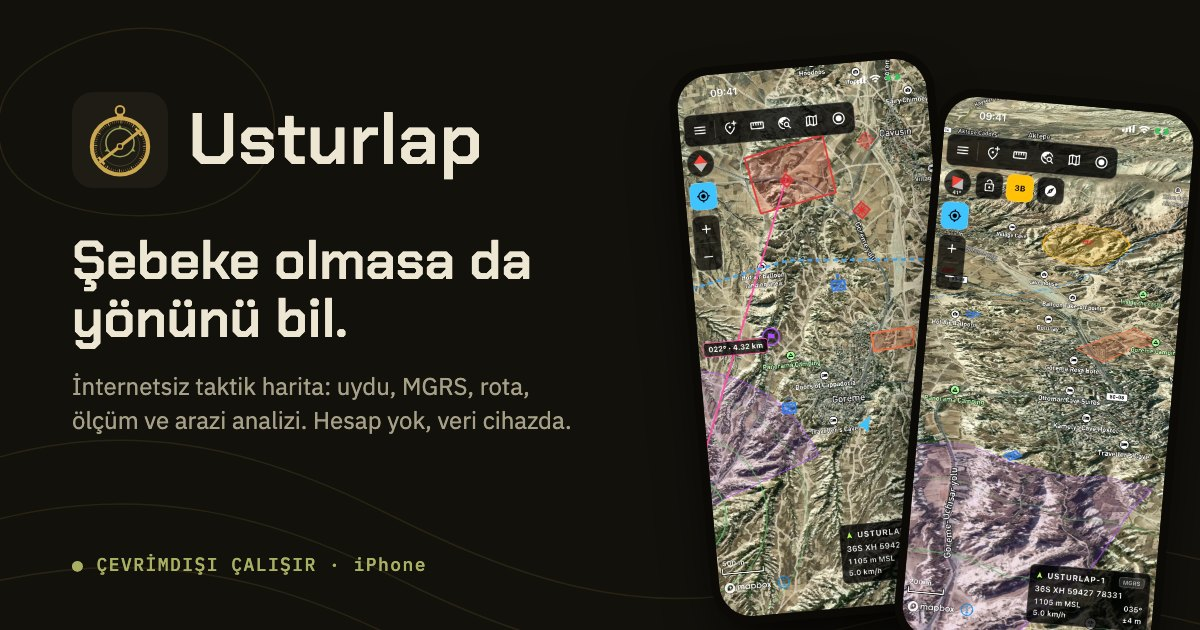
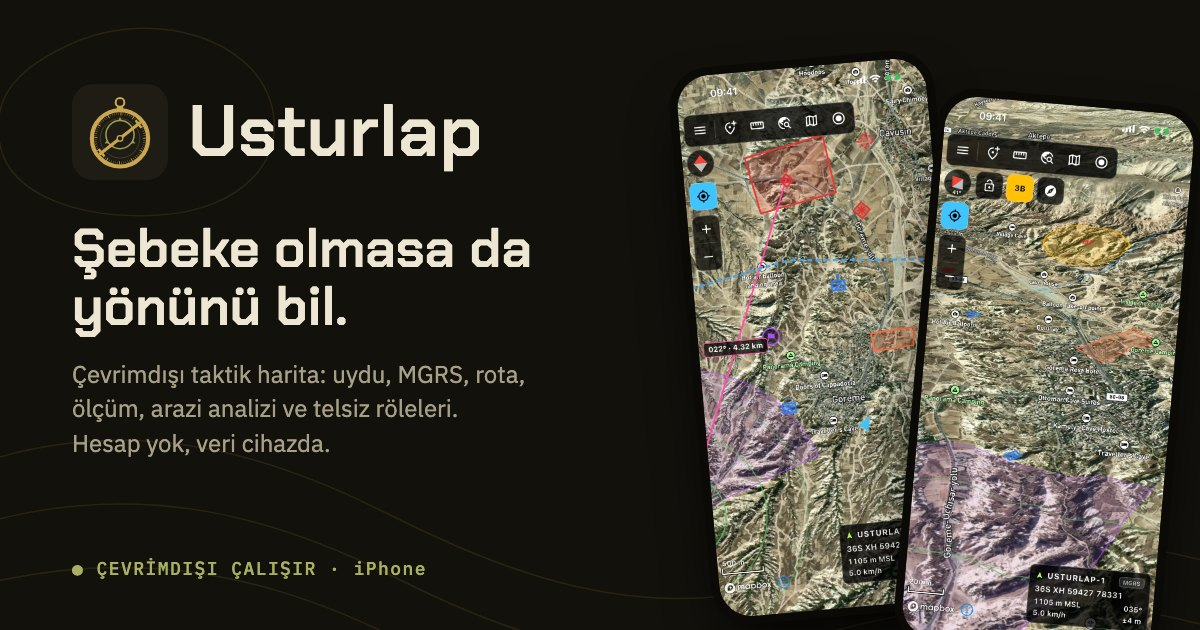
Site: "çevrimdışı" ifadesi ve telsiz röleleri bölümü
- Sitedeki "internetsiz" ifadeleri "çevrimdışı" oldu (başlık, giriş,
  metinler, paylaşım görseli)
- Yeni "Telsiz röleleri" bölümü: 157 röle (TRAC), VHF / UHF bant tablosu
  (tipik çıkış ve shift), dijital röleler, TR1–TR9, kaba kapsama halkası,
  ehliyet notu; üç yeni ekran görüntüsü
- Çekim testine röle adımı (demo çizimleri geçici gizlenir); hata anı
  görüntüleri artık siteye değil ham klasöre yazılır
- tool/site_og.html: paylaşım görselinin kaynağı

diff --git a/website/index.html b/website/index.html
@@ -3,13 +3,13 @@
 <head>
 <meta charset="utf-8">
 <meta name="viewport" content="width=device-width, initial-scale=1, viewport-fit=cover">
-<title>Usturlap: internetsiz taktik harita</title>
-<meta name="description" content="Usturlap; uydu haritası, MGRS koordinat, rota, ölçüm ve arazi analizini şebeke olmadan, tek elle kullanmanız için yapılmış bir iPhone uygulaması. Hesap yok, veri cihazda.">
+<title>Usturlap: çevrimdışı taktik harita</title>
+<meta name="description" content="Usturlap; uydu haritası, MGRS koordinat, rota, ölçüm, arazi analizi ve telsiz rölelerini çevrimdışı, tek elle kullanmanız için yapılmış bir iPhone uygulaması. Hesap yok, veri cihazda.">
 <meta name="theme-color" content="#12110c">
 <meta property="og:type" content="website">
 <meta property="og:locale" content="tr_TR">
-<meta property="og:title" content="Usturlap: internetsiz taktik harita">
-<meta property="og:description" content="Uydu haritası, MGRS, rota, ölçüm ve arazi analizi. Şebeke olmadan, tek elle. Hesap yok, veri cihazda.">
+<meta property="og:title" content="Usturlap: çevrimdışı taktik harita">
+<meta property="og:description" content="Uydu haritası, MGRS, rota, ölçüm, arazi analizi ve telsiz röleleri. Çevrimdışı, tek elle. Hesap yok, veri cihazda.">
 <meta property="og:image" content="https://aoyilmaz.github.io/usturlap/assets/img/og.jpg">
 <meta property="og:url" content="https://aoyilmaz.github.io/usturlap/">
 <meta name="twitter:card" content="summary_large_image">
@@ -59,9 +59,9 @@
   </svg>
   <div class="wrap">
     <div>
-      <p class="eyebrow"><span class="nocase" lang="en">iPhone</span> için · internetsiz taktik harita</p>
+      <p class="eyebrow"><span class="nocase" lang="en">iPhone</span> için · çevrimdışı taktik harita</p>
       <h1 id="baslik">Şebeke olmasa da yönünü bil.</h1>
-      <p class="lead">Usturlap; uydu haritası, MGRS koordinat, rota, ölçüm ve arazi analizini bir araya getirir. Tek elle, eldivenle ve internet olmadan kullanılır. Hesap açmazsınız, verileriniz telefonunuzda kalır.</p>
+      <p class="lead">Usturlap; uydu haritası, MGRS koordinat, rota, ölçüm, arazi analizi ve telsiz rölelerini bir araya getirir. Tek elle, eldivenle ve çevrimdışı kullanılır. Hesap açmazsınız, verileriniz telefonunuzda kalır.</p>
       <div class="cta">
         <span class="btn btn-soon" aria-disabled="true">
           <svg viewBox="0 0 24 24" fill="none" stroke="currentColor" stroke-width="1.8" stroke-linecap="round" stroke-linejoin="round" aria-hidden="true"><rect x="6" y="2" width="12" height="20" rx="3"/><path d="M10.5 18.5h3"/></svg>
@@ -149,7 +149,7 @@
           <p class="eyebrow">Harita</p>
           <h2 id="f1">Şebeke bittiğinde harita bitmez.</h2>
           <p class="one">Uydu görüntüsü, sokak ve topografik altlıklar. Gitmeden önce bölgeyi indirin, sahada uçak modunda kullanın.</p>
-          <p class="why">Dağda, vadide ya da kalabalık bir etkinlikte baz istasyonu ilk giden şeydir. Usturlap indirdiğiniz bölgeleri ve kendi MBTiles, PMTiles ya da GeoPackage paketlerinizi internetsiz açar. 3B arazi, gece modu ve yatay ekran hazır.</p>
+          <p class="why">Dağda, vadide ya da kalabalık bir etkinlikte baz istasyonu ilk giden şeydir. Usturlap indirdiğiniz bölgeleri ve kendi MBTiles, PMTiles ya da GeoPackage paketlerinizi çevrimdışı açar. 3B arazi, gece modu ve yatay ekran hazır.</p>
           <ul class="ticks">
             <li>Uydu, Sokak, Topografik</li>
             <li>Bölge indirme: tür ve ayrıntı seçimi</li>
@@ -201,6 +201,46 @@
       </div>
     </article>
 
+    <!-- 3. Telsiz röleleri -->
+    <article class="feature" aria-labelledby="f-role">
+      <div class="feature-grid">
+        <div>
+          <p class="eyebrow">Telsiz röleleri</p>
+          <h2 id="f-role">En yakın röle, frekansıyla birlikte.</h2>
+          <p class="one">Türkiye'deki 157 amatör telsiz rölesi haritada: dinleme ve gönderme frekansı, shift, ton ve operatör bilgisiyle. Liste uygulamayla gelir, çevrimdışı çalışır.</p>
+          <p class="why">Şebeke yokken haberleşme çoğu zaman telsize kalır. Röleye dokununca telsizinize gireceğiniz frekanslar çıkar; "Git" röleye kerteriz ve mesafe verir, R&amp;B ile hattı ölçersiniz. Seçili rölenin çevresinde yaklaşık 30 km'lik kaba bir kapsama halkası görünür; gerçek kapsama araziye göre değişir.</p>
+          <div class="table-scroll">
+            <table class="bands">
+              <caption>Röle bantları</caption>
+              <thead>
+                <tr><th scope="col">Bant</th><th scope="col">Röle</th><th scope="col">Tipik çıkış (dinle)</th><th scope="col">Tipik shift</th></tr>
+              </thead>
+              <tbody>
+                <tr><th scope="row">VHF · 2 m</th><td>67</td><td>145,600–145,775 MHz</td><td>−0,6 MHz</td></tr>
+                <tr><th scope="row">UHF · 70 cm</th><td>90</td><td>439,150–439,425 MHz</td><td>−7,6 MHz</td></tr>
+              </tbody>
+            </table>
+          </div>
+          <ul class="ticks">
+            <li>VHF / UHF bant süzgeci</li>
+            <li>RX, TX, shift ve CTCSS tonu</li>
+            <li>5 dijital röle: DMR, C4FM, NXDN</li>
+            <li>Dokuz çağrı bölgesi (TR1–TR9)</li>
+          </ul>
+          <p class="credit" style="margin-top: 20px">Röle verisi: TRAC (Türkiye Radyo Amatörleri Cemiyeti) ve saha verileri, Mayıs 2026. Rölelerde yayın yapmak için amatör telsiz ehliyeti gerekir.</p>
+        </div>
+        <div class="feature-media">
+          <div class="phone"><img src="assets/shots/roleler.webp" width="800" height="1739" loading="lazy" decoding="async" alt="Kapadokya çevresinde telsiz röleleri: anten simgeleri ve seçili Nevşehir rölesinin çevresinde yaklaşık 30 km'lik kapsama halkası."></div>
+        </div>
+      </div>
+      <div class="strip" role="region" aria-label="Telsiz rölesi ekran görüntüleri" tabindex="0">
+        <div class="strip-track">
+          <figure class="shot"><img src="assets/shots/role-detay.webp" width="800" height="1739" loading="lazy" decoding="async" alt="Röle ayrıntısı: Nevşehir Kahveci Dağı; RX 145,600 MHz, TX 145,000 MHz, shift −0,6 MHz, VHF analog, operatör, bölge ve koordinat; Ortala ve Git düğmeleri."><figcaption>Röle ayrıntısı</figcaption></figure>
+          <figure class="shot"><img src="assets/shots/role-ayar.webp" width="800" height="1739" loading="lazy" decoding="async" alt="Ayarlar: Telsiz röleleri anahtarı ve Tümü, VHF, UHF bant seçimi."><figcaption>Bant süzgeci</figcaption></figure>
+        </div>
+      </div>
+    </article>
+
     <!-- 3. Ölçüm ve arazi -->
     <article class="feature" aria-labelledby="f3">
       <div class="feature-grid">
@@ -208,7 +248,7 @@
           <p class="eyebrow">Ölçüm ve arazi</p>
           <h2 id="f3">Haritaya bak, araziyi oku.</h2>
           <p class="one">Mesafe-kerteriz, alan, menzil halkaları ve bullseye. Yükseklik verisiyle görüş alanı, eğim ve eş yükselti.</p>
-          <p class="why">Bir tepeden nereyi görebileceğinizi, hangi yamacın dik olduğunu yola çıkmadan görün. Yükseklik verisi (SRTM, DTED) cihazda tutulur, hesaplar internetsiz yapılır.</p>
+          <p class="why">Bir tepeden nereyi görebileceğinizi, hangi yamacın dik olduğunu yola çıkmadan görün. Yükseklik verisi (SRTM, DTED) cihazda tutulur, hesaplar çevrimdışı yapılır.</p>
           <ul class="ticks">
             <li>Noktalara bağlanan R&amp;B çizgisi</li>
             <li>Alan, çevre ve sektör</li>
@@ -283,7 +323,7 @@
           <p class="eyebrow">Saha</p>
           <h2 id="f6">Sahada gereken küçük şeyler.</h2>
           <p class="one">CASEVAC 9 satır ve SPOTREP raporları, güneş ve ay saatleri, hava durumu, iz kaydı ve pil alarmı.</p>
-          <p class="why">Rapor formları konumu MGRS olarak doldurur; metin kopyalanmaya ya da paylaşılmaya hazırdır. Gün doğumu, alacakaranlık ve ay saatleri internetsiz hesaplanır. Hava durumu isteğe bağlıdır ve konumu yuvarlayarak sorar.</p>
+          <p class="why">Rapor formları konumu MGRS olarak doldurur; metin kopyalanmaya ya da paylaşılmaya hazırdır. Gün doğumu, alacakaranlık ve ay saatleri çevrimdışı hesaplanır. Hava durumu isteğe bağlıdır ve konumu yuvarlayarak sorar.</p>
           <ul class="ticks">
             <li>9 satır ve SPOTREP</li>
             <li>Güneş, alacakaranlık, ay</li>
@@ -337,7 +377,7 @@
   <div class="wrap">
     <div class="section-head">
       <p class="eyebrow">Yol haritası</p>
-      <h2 id="y-baslik">Sırada: internetsiz ekip ağı.</h2>
+      <h2 id="y-baslik">Sırada: çevrimdışı ekip ağı.</h2>
       <p>Şu ana kadarki her şey tek kişilik. Sonraki büyük adım, şebeke olmadan bir ekibin birbirini haritada görmesi.</p>
     </div>
     <div class="road">

diff --git a/integration_test/showcase_test.dart b/integration_test/showcase_test.dart
@@ -30,6 +30,7 @@ import 'package:usturlap/data/db/app_database.dart';
 import 'package:usturlap/domain/models/bullseye.dart';
 import 'package:usturlap/domain/models/contact.dart';
 import 'package:usturlap/domain/models/map_graphic.dart';
+import 'package:usturlap/domain/models/overlay_visibility.dart';
 import 'package:usturlap/domain/models/range_line.dart';
 import 'package:usturlap/domain/models/route_plan.dart';
 import 'package:usturlap/domain/models/sensor_fov.dart';
@@ -43,6 +44,7 @@ import 'package:usturlap/providers/bullseye_providers.dart';
 import 'package:usturlap/providers/elevation_providers.dart';
 import 'package:usturlap/providers/graphic_providers.dart';
 import 'package:usturlap/providers/location_providers.dart';
+import 'package:usturlap/providers/overlay_providers.dart';
 import 'package:usturlap/providers/range_line_providers.dart';
 import 'package:usturlap/providers/route_providers.dart';
 import 'package:usturlap/providers/settings_providers.dart';
@@ -594,6 +596,49 @@ void main() {
     await _step(t, 'taktik-pusula', () async {
       await _openTool(t, 'Taktik pusula');
       await _shot(t, 'taktik-pusula', settle: 2);
+    });
+
+    // Telsiz röleleri: Kapadokya çevresi (Nevşehir, Kayseri, Niğde), seçili
+    // rölenin kaba kapsama halkası, ayrıntı paneli ve bant süzgeci. Katman
+    // sonda kapatılır (halka sonraki görüntülere girmesin).
+    await _step(t, 'roleler', () async {
+      try {
+        if (!_c.read(showRepeatersProvider)) {
+          _c.read(showRepeatersProvider.notifier).toggle();
+        }
+        // Demo çizimleri rölelerin üstüne binmesin: geçici olarak gizli.
+        _c.read(overlayVisibilityProvider.notifier).update((v) => v.setGroups([
+              for (final a in Affiliation.values)
+                OverlayVisibility.waypointGroup(a),
+              OverlayVisibility.graphicsGroup,
+              OverlayVisibility.rangeLinesGroup,
+              OverlayVisibility.rangeRingsGroup,
+            ], hidden: true));
+        // Nevşehir üçlüsü, Kayseri ve Niğde aynı çerçevede.
+        _ctrl(t).moveTo(const LatLng(38.60, 35.05), zoom: 7.8);
+        await _wait(t, 3);
+        _markerTap(t, 'rep:nevsehir-vhf-145600');
+        await _wait(t, 1.2);
+        await _tapText(t, 'Detay');
+        await _shot(t, 'role-detay', settle: 1.5);
+        await _closeAll(t);
+        await _shot(t, 'roleler', settle: 2);
+        await _openTool(t, 'Ayarlar');
+        final list = find
+            .descendant(
+                of: find.byType(ListView).last,
+                matching: find.byType(Scrollable))
+            .first;
+        // Bant seçimi "Acil veri silme" satırının hemen üstünde.
+        await t.scrollUntilVisible(find.text('Acil veri silme'), 120,
+            scrollable: list);
+        await _shot(t, 'role-ayar', settle: 1.2);
+      } finally {
+        if (_c.read(showRepeatersProvider)) {
+          _c.read(showRepeatersProvider.notifier).toggle();
+        }
+        _c.read(overlayVisibilityProvider.notifier).reset();
+      }
     });
 
     if (hasDem) {

diff --git a/tool/site_og.html b/tool/site_og.html
@@ -1,0 +1,33 @@
+<!doctype html>
+<!-- Sitenin paylaşım görseli (website/assets/img/og.jpg) kaynağı, 1200×630.
+     Üretmek için:
+       "/Applications/Google Chrome.app/Contents/MacOS/Google Chrome" --headless \
+         --hide-scrollbars --force-device-scale-factor=1 --window-size=1200,630 \
+         --virtual-time-budget=8000 --allow-file-access-from-files \
+         --screenshot=/tmp/og.png "file://$PWD/tool/site_og.html"
+     sonra PNG → JPEG (kalite ~86) olarak website/assets/img/og.jpg. -->
+<html lang="tr"><head><meta charset="utf-8">
+<link rel="stylesheet" href="https://fonts.googleapis.com/css2?family=Chakra+Petch:wght@600&family=IBM+Plex+Mono:wght@500&family=IBM+Plex+Sans:wght@400&display=block">
+<style>
+html,body{margin:0;width:1200px;height:630px;overflow:hidden;background:#12110c;color:#ece6d3;font-family:'IBM Plex Sans',sans-serif}
+.c{position:absolute;inset:0;color:rgba(201,166,79,.13)}
+.l{position:absolute;left:72px;top:84px;width:600px}
+.b{display:flex;align-items:center;gap:20px}
+.b img{width:96px;height:96px}
+.b span{font:600 72px/1 'Chakra Petch',sans-serif;letter-spacing:.01em}
+h1{margin:40px 0 0;font:600 54px/1.08 'Chakra Petch',sans-serif}
+p{margin:20px 0 0;font-size:24px;line-height:1.45;color:#a7a088}
+.m{position:absolute;left:72px;bottom:52px;font:500 18px/1 'IBM Plex Mono',monospace;letter-spacing:.08em;color:#a9b062}
+.ph{position:absolute;top:58px;width:250px;padding:8px;border-radius:40px;background:#0b0a07;box-shadow:0 30px 60px -20px #000}
+.ph img{display:block;width:100%;border-radius:33px}
+.p1{left:690px;transform:rotate(-5deg)}
+.p2{left:915px;top:96px;transform:rotate(5deg)}
+</style></head><body>
+<svg class="c" viewBox="0 0 1200 630" fill="none" stroke="currentColor" stroke-width="1.5"><path d="M-40 470c160-60 300-20 420 40s260 120 420 70 260-60 440-10"/><path d="M-40 530c170-55 310-15 430 45s250 110 410 65 270-55 440-5"/><path d="M-40 590c180-50 320-10 440 50s240 100 400 60 280-50 440 0"/><path d="M80 40c80-30 170 0 190 60s-30 110-110 115-150-20-160-70 20-80 80-105z"/></svg>
+<div class="l"><div class="b"><img src="../website/assets/img/logo.svg" alt=""><span>Usturlap</span></div>
+<h1>Şebeke olmasa da<br>yönünü bil.</h1>
+<p>Çevrimdışı taktik harita: uydu, MGRS, rota,<br>ölçüm, arazi analizi ve telsiz röleleri.<br>Hesap yok, veri cihazda.</p></div>
+<div class="m">● ÇEVRİMDIŞI ÇALIŞIR · iPhone</div>
+<div class="ph p1"><img src="../website/assets/shots/ana-ekran.webp" alt=""></div>
+<div class="ph p2"><img src="../website/assets/shots/3b-arazi.webp" alt=""></div>
+</body></html>

diff --git a/website/gizlilik.html b/website/gizlilik.html
@@ -49,7 +49,7 @@
     </ul>
 
     <h2>Cihazda saklananlar</h2>
-    <p>Noktalar, çizimler, izler, rotalar, ölçümler, raporlar, noktalara eklediğiniz fotoğraflar ve ayarlar uygulamanın telefondaki veritabanında durur. İndirdiğiniz harita bölgeleri ve içe aktardığınız harita ya da yükseklik dosyaları da telefonda saklanır. Bunlar Usturlap'ın herhangi bir sunucusuna gönderilmez; Usturlap'ın bir sunucusu yoktur.</p>
+    <p>Noktalar, çizimler, izler, rotalar, ölçümler, raporlar, noktalara eklediğiniz fotoğraflar ve ayarlar uygulamanın telefondaki veritabanında durur. İndirdiğiniz harita bölgeleri ve içe aktardığınız harita ya da yükseklik dosyaları da telefonda saklanır. Bunlar Usturlap'ın herhangi bir sunucusuna gönderilmez; Usturlap'ın bir sunucusu yoktur. Telsiz röle listesi uygulamayla birlikte gelir; göstermek için internet gerekmez.</p>
     <p>iPhone'unuzun kendi yedeklemesi (iCloud ya da bilgisayar) açıksa, uygulama verisi de iOS'un cihaz yedeğine girebilir. Bu yedek Apple'ın ve sizin denetiminizdedir.</p>
 
     <h2>Ağ bağlantıları</h2>
@@ -78,7 +78,7 @@
         </tbody>
       </table>
     </div>
-    <p>Karo istekleri, haritada hangi bölgeye baktığınızı ilgili sunucuya dolaylı olarak gösterir. Bunu istemediğiniz yerde haritayı önceden indirip uçak modunda kullanabilirsiniz; indirilen bölgeler internetsiz açılır.</p>
+    <p>Karo istekleri, haritada hangi bölgeye baktığınızı ilgili sunucuya dolaylı olarak gösterir. Bunu istemediğiniz yerde haritayı önceden indirip uçak modunda kullanabilirsiniz; indirilen bölgeler çevrimdışı açılır.</p>
     <p>Mapbox'ın isteğe bağlı kullanım ve konum telemetrisi Usturlap'ta <strong>kapalı başlar</strong>; haritanın sol altındaki <strong>(i)</strong> düğmesinden açıp kapatabilirsiniz. Mapbox'ın, OpenStreetMap Vakfı'nın ve Open-Meteo'nun kendi gizlilik koşulları için: <a href="https://www.mapbox.com/legal/privacy">Mapbox</a>, <a href="https://osmfoundation.org/wiki/Privacy_Policy">OpenStreetMap</a>, <a href="https://open-meteo.com/en/terms">Open-Meteo</a>.</p>
 
     <h2>İzinler</h2>

diff --git a/website/assets/css/site.css b/website/assets/css/site.css
@@ -692,6 +692,46 @@ p {
   }
 }
 
+/* Röle bant tablosu */
+.bands {
+  width: 100%;
+  margin-top: 24px;
+  border-collapse: collapse;
+  font-size: 15px;
+}
+
+.bands caption {
+  text-align: left;
+  padding-bottom: 8px;
+  font: 500 12px/1.3 var(--f-mono);
+  letter-spacing: 0.1em;
+  text-transform: uppercase;
+  color: var(--soft);
+}
+
+.bands th,
+.bands td {
+  text-align: left;
+  padding: 10px 12px 10px 0;
+  border-bottom: 1px solid var(--line);
+  white-space: nowrap;
+}
+
+.bands thead th {
+  font: 500 12px/1.3 var(--f-mono);
+  color: var(--muted);
+}
+
+.bands tbody th {
+  font-weight: 600;
+  color: var(--ink);
+}
+
+.bands td {
+  font-family: var(--f-mono);
+  color: var(--ink);
+}
+
 /* Biçim çipleri (paylaşım) */
 .chips {
   display: flex;
@@ -1023,6 +1063,21 @@ p {
 
   .shot {
     width: 160px;
+  }
+
+  /* Bant tablosu dar ekranda sığsın: başlık ve bant adı satır kırar. */
+  .bands {
+    font-size: 13px;
+  }
+
+  .bands th,
+  .bands td {
+    white-space: normal;
+    padding-right: 8px;
+  }
+
+  .bands td:nth-child(3) {
+    white-space: nowrap;
   }
 
   .shot.wide {

diff --git a/tool/capture_site_media.py b/tool/capture_site_media.py
@@ -127,8 +127,10 @@ def main() -> None:
             name = mark[5:]
             png = raw / f"{name}.png"
             sh("xcrun", "simctl", "io", udid, "screenshot", "--type=png", str(png))
+            # Hata anı görüntüleri siteye değil ham klasöre (inceleme için).
+            dest = raw if name.startswith("hata-") else out / "shots"
             sh("cwebp", "-quiet", "-q", "82", "-resize", str(args.width), "0",
-               str(png), "-o", str(out / "shots" / f"{name}.webp"))
+               str(png), "-o", str(dest / f"{name}.webp"))
             shots.append(name)
             print(f"  ▣ {name}")
         elif mark.startswith("VIDEO:start:"):
